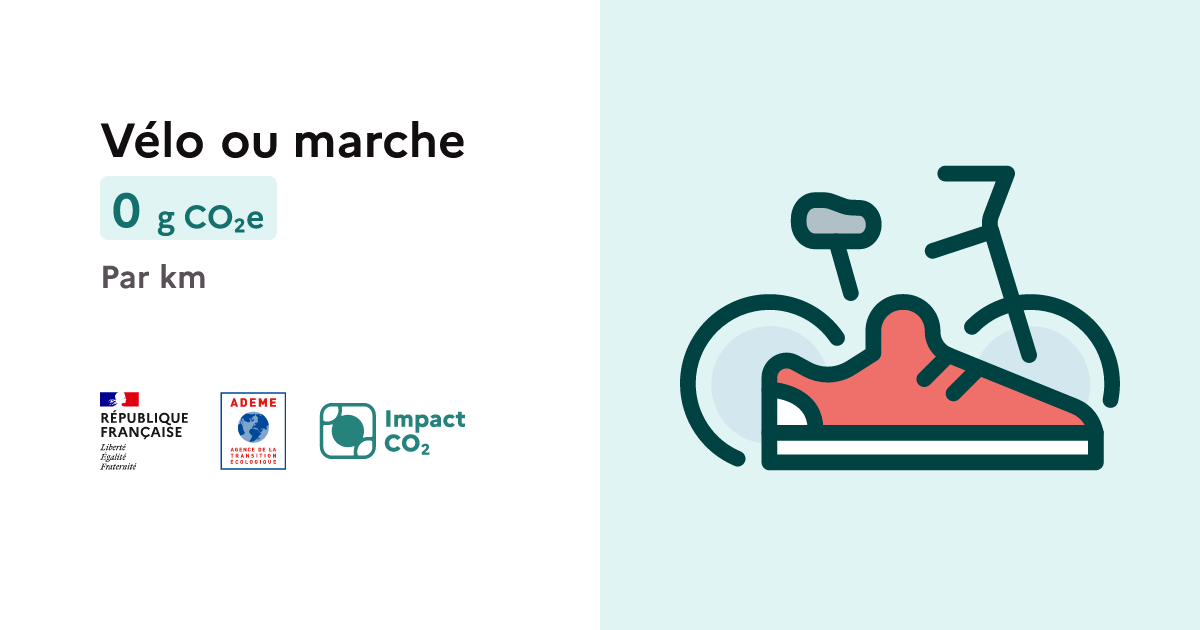
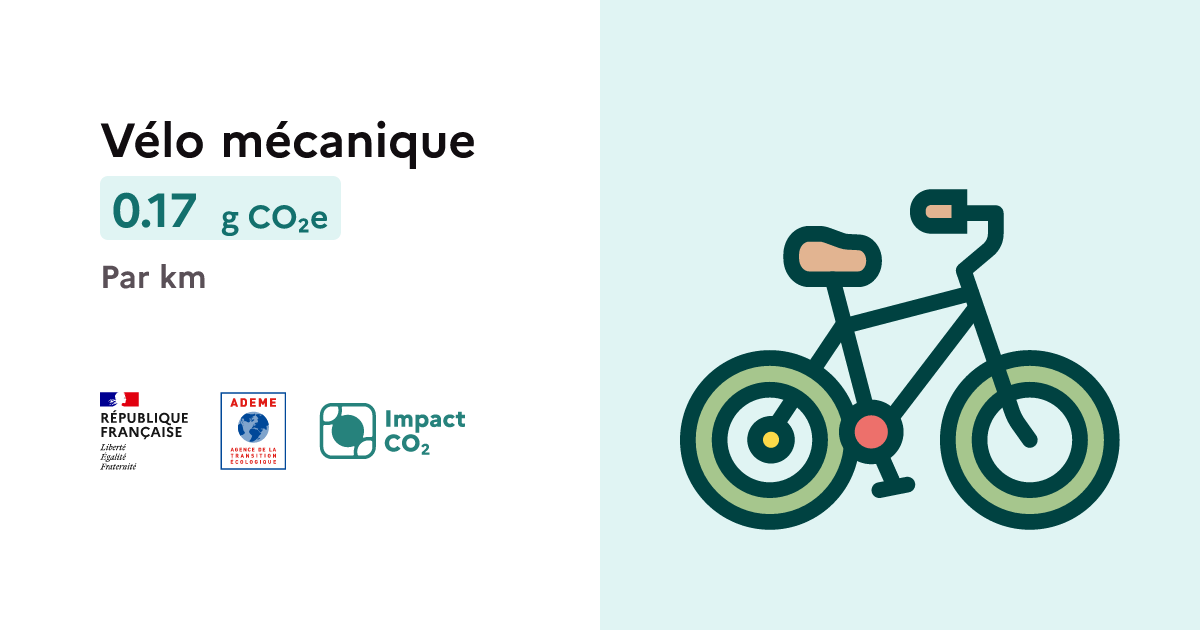
feat: add velo

Changed region(s): [[0.555, 0.2413, 0.9558, 0.8444], [0.1233, 0.181, 0.4008, 0.3921]]

diff --git a/src/components/shareable/overScreens/Data/TransportData.tsx b/src/components/shareable/overScreens/Data/TransportData.tsx
@@ -109,6 +109,17 @@ const FRTransportData = () => {
           avions. Les impacts de l’aviation varient selon les hypothèses retenues sur ces traînées et leur persistance.
         </p>
       </div>
+      <h2 className={styles.title}>Vélo mécanique</h2>
+      <div className={styles.content}>
+        <p>
+          Similaire au vélo à assistance électrique, une hypothèse de durée de vie de <b>12 ans</b> et une distance
+          parcourue de <b>30 000 km</b>. En éliminant l'impact lié au moteur, à la batterie, et aux systèmes
+          électroniques d’un vélo électrique, un vélo mécanique avec un cadre aluminium, partage la majorité de ses
+          composantes avec le vélo à assistance électrique. L'empreinte carbone d'un vélo mécanique est estimée à 
+          <b>5,19 kg CO₂</b>. L’énergie calorique utilisée par le cycliste pour pédaler le vélo n’est pas prise en
+          compte.
+        </p>
+      </div>
       <div className={styles.content}>
         <p>
           Vous avez une question ? Vous souhaitez aller plus loin dans la compréhension ?{' '}
@@ -228,6 +239,17 @@ const ESTransportData = () => {
           persistencia.
         </p>
       </div>
+      <h2 className={styles.title}>Bicicleta mecánica</h2>
+      <div className={styles.content}>
+        <p>
+          Similar a la bicicleta asistida eléctricamente, se asume una vida útil de <b>12 años</b> y una distancia
+          recorrida de <b>30 000 km</b>. Eliminando el impacto relacionado con el motor, la batería y los sistemas
+          electrónicos de una bicicleta eléctrica, una bicicleta mecánica con un cuadro de aluminio comparte la mayoría
+          de sus componentes con la bicicleta asistida eléctricamente. La huella de carbono de una bicicleta mecánica se
+          estima en <b>5,19 kg CO₂</b>. La energía calórica utilizada por el ciclista para pedalear la bicicleta no se
+          tiene en cuenta.
+        </p>
+      </div>
       <div className={styles.content}>
         <p>
           ¿Tienes alguna pregunta? ¿Quieres saber más?{' '}
@@ -344,6 +366,16 @@ const ENTransportData = () => {
           remains uncertain, as these unstable clouds are difficult to model accurately, but could be two to three times
           greater than the direct emissions of airplanes. The impacts of aviation vary depending on the assumptions made
           about these contrails and their persistence.
+        </p>
+      </div>
+      <h2 className={styles.title}>Mechanical Bicycle</h2>
+      <div className={styles.content}>
+        <p>
+          Similar to the electrically assisted bicycle, an assumed lifespan of <b>12 years</b> and a distance traveled
+          of <b>30,000 km</b>. By eliminating the impact related to the motor, battery, and electronic systems of an
+          electric bicycle, a mechanical bicycle with an aluminum frame shares most of its components with the
+          electrically assisted bicycle. The carbon footprint of a mechanical bicycle is estimated at <b>5.19 kg CO₂</b>
+          . The caloric energy used by the cyclist to pedal the bicycle is not taken into account.
         </p>
       </div>
       <div className={styles.content}>

diff --git a/teste/distance.ts b/teste/distance.ts
@@ -94,12 +94,12 @@ export const distanceTest = async (page: Page | FrameLocator, prod?: boolean) =>
   await page.locator('span').filter({ hasText: /^TER$/ }).nth(2).click()
   await page.getByLabel('Intégrer').getByText('Covoiturage thermique', { exact: true }).click()
   await expect(page.getByTestId('clipboard-box')).toHaveText(
-    `<script name="impact-co2" src="${prod ? 'https://impactco2.fr' : 'http://localhost:3000'}/iframe.js" data-type="transport/itineraire" data-search="?theme=default&language=fr&tabs=distance&km=1000&defaultMode=comparison&comparison=voiturethermique,autocar&modes=avion,intercites,voiturethermique,voitureelectrique+1,voitureelectrique,autocar,velo,veloelectrique,busthermique,tramway,metro,scooter,moto,rer,buselectrique,trottinette,busgnv"></script>`
+    `<script name="impact-co2" src="${prod ? 'https://impactco2.fr' : 'http://localhost:3000'}/iframe.js" data-type="transport/itineraire" data-search="?theme=default&language=fr&tabs=distance&km=1000&defaultMode=comparison&comparison=voiturethermique,autocar&modes=avion,intercites,voiturethermique,voitureelectrique+1,voitureelectrique,autocar,marche,velo,veloelectrique,busthermique,tramway,metro,scooter,moto,rer,buselectrique,trottinette,busgnv"></script>`
   )
   await page.getByTestId('text-select-comparison-1').selectOption('velo')
   await page.getByTestId('text-select-comparison-2').selectOption('moto')
   await expect(page.getByTestId('clipboard-box')).toHaveText(
-    `<script name="impact-co2" src="${prod ? 'https://impactco2.fr' : 'http://localhost:3000'}/iframe.js" data-type="transport/itineraire" data-search="?theme=default&language=fr&tabs=distance&km=1000&defaultMode=comparison&comparison=velo,moto&modes=avion,intercites,voiturethermique,voitureelectrique+1,voitureelectrique,autocar,velo,veloelectrique,busthermique,tramway,metro,scooter,moto,rer,buselectrique,trottinette,busgnv"></script>`
+    `<script name="impact-co2" src="${prod ? 'https://impactco2.fr' : 'http://localhost:3000'}/iframe.js" data-type="transport/itineraire" data-search="?theme=default&language=fr&tabs=distance&km=1000&defaultMode=comparison&comparison=velo,moto&modes=avion,intercites,voiturethermique,voitureelectrique+1,voitureelectrique,autocar,marche,velo,veloelectrique,busthermique,tramway,metro,scooter,moto,rer,buselectrique,trottinette,busgnv"></script>`
   )
 
   await page.getByTestId('cancel-button').click()

diff --git a/app/api/v1/transport/route.ts b/app/api/v1/transport/route.ts
@@ -146,7 +146,7 @@ export const computeTransportEmission = (
  *         - 4 : Voiture thermique
  *         - 5 : Voiture électrique
  *         - 6 : Autocar thermique
- *         - 7 : Vélo ou marche
+ *         - 7 : Vélo
  *         - 8 : Vélo à assistance électrique
  *         - 9 : Bus thermique
  *         - 10 : Tramway
@@ -166,6 +166,7 @@ export const computeTransportEmission = (
  *         - 27 : Covoiturage électrique (2 passagers)
  *         - 28 : Covoiturage électrique (3 passagers)
  *         - 29 : Covoiturage électrique (4 passagers)
+ *         - 30 : Marche
  *     - in: query
  *       name: ignoreRadiativeForcing
  *       default: 0

diff --git a/src/data/categories/deplacement.ts b/src/data/categories/deplacement.ts
@@ -190,17 +190,35 @@ export const deplacements = [
     },
   },
   {
+    id: 30,
+    synonyms: ['marcher'],
+    slug: 'marche',
+    type: 'foot',
+    category: 4,
+    default: true,
+    tile: false,
+    total: 0,
+    display: {
+      max: 30,
+    },
+  },
+  {
     id: 7,
-    synonyms: ['marcher', 'pedaler'],
+    synonyms: ['pedaler'],
     slug: 'velo',
     type: 'foot',
     category: 4,
-    total: 0,
     default: true,
     tile: false,
     display: {
       max: 30,
     },
+    ecv: [
+      {
+        id: 5,
+        value: 0.00017,
+      },
+    ],
   },
   {
     id: 8,

diff --git a/src/scripts/testIframes.config.ts b/src/scripts/testIframes.config.ts
@@ -75,7 +75,7 @@ export const checks = [
       await itineraireTest(
         iframe,
         true,
-        '&modes=avion,tgv,intercites,voiturethermique+1,voiturethermique,voitureelectrique+1,voitureelectrique,autocar,velo,veloelectrique,busthermique,tramway,scooter,moto,rer,ter,buselectrique,trottinette,busgnv'
+        '&modes=avion,tgv,intercites,voiturethermique+1,voiturethermique,voitureelectrique+1,voitureelectrique,autocar,marche,velo,veloelectrique,busthermique,tramway,scooter,moto,rer,ter,buselectrique,trottinette,busgnv'
       )
     },
   },

diff --git a/testa/getEmissionPerDistance.test.ts b/testa/getEmissionPerDistance.test.ts
@@ -64,7 +64,8 @@ describe('getEmissionPerDistance', () => {
         id: 6,
         name: 'Autocar thermique',
       },
-      { id: 7, name: 'Vélo ou marche', emissions: { gco2e: 0, kgco2e: 0, tco2e: 0 } },
+      { id: 30, name: 'Marche', emissions: { gco2e: 0, kgco2e: 0, tco2e: 0 } },
+      { id: 7, name: 'Vélo mécanique', emissions: { gco2e: 0, kgco2e: 0, tco2e: 0 } },
       {
         id: 8,
         name: 'Vélo à assistance électrique',

diff --git a/teste/distance.spec.ts b/teste/distance.spec.ts
@@ -57,7 +57,7 @@ test('Transport distance default values', async ({ page }) => {
     timeout: 60000,
   })
   await expect(page.getByTestId('comparison-tile-0')).toHaveText(
-    'Vélo ou marche0 kg CO₂eMoyen le plus écologique2.18Kg CO₂eévités'
+    'Vélo mécanique0 kg CO₂eMoyen le plus écologique2.17Kg CO₂eévités'
   )
   await expect(page.getByTestId('comparison-tile-1')).toHaveText('Voiture thermique2.18 kg CO₂e')
 

diff --git a/testa/transport.test.ts b/testa/transport.test.ts
@@ -257,8 +257,13 @@ describe('transport', () => {
           value: 2.5,
         },
         {
+          id: 30,
+          name: 'Marche',
+          value: 0,
+        },
+        {
           id: 7,
-          name: 'Vélo ou marche',
+          name: 'Vélo mécanique',
           value: 0,
         },
         {

diff --git a/npm/react/README.md b/npm/react/README.md
@@ -86,7 +86,8 @@ Liste des équivalents à comparer parmis la liste suivante :
   - voitureelectrique+3 : km en voiture électrique avec 3 passagers
   - voitureelectrique+4 : km en voiture électrique avec 4 passagers
   - autocar : km en autocar thermique
-  - velo : vélo ou marche
+  - velo : vélo mécanique
+  - marche : marche
   - veloelectrique : km en vélo à assistance électrique
   - trottinette : km en trottinette à assistance électrique
   - busthermique : km en bus thermique
